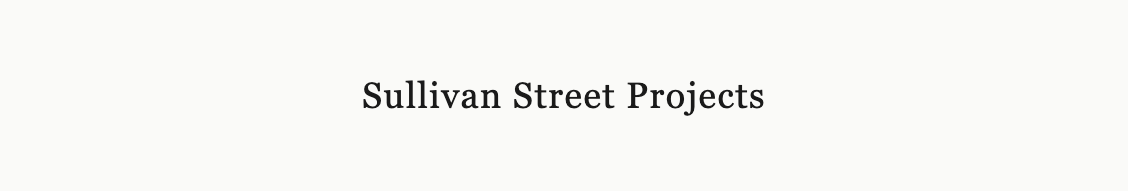
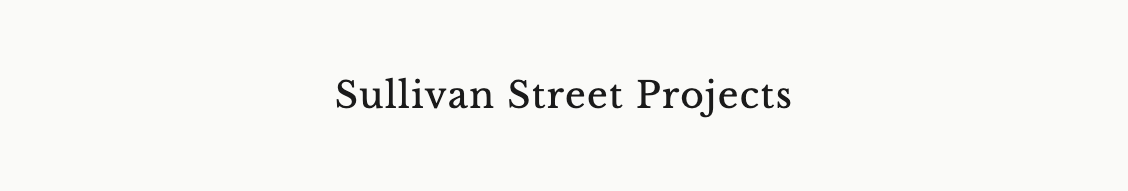
Replace mailto CTA with TidyCal booking link and add external link handling
- Contact CTA now points to TidyCal growth consultation booking page
- CTAButton auto-detects external URLs and adds target="_blank" rel="noopener noreferrer"
- Refactor CTAButton class structure for group-hover support
- Update MainPageStatic playground variant with new sections and content
- Update LinkedIn company banner

Changed region(s): [[0.2793, 0.3927, 0.7137, 0.6283]]

diff --git a/src/playground/variants/MainPageStatic.jsx b/src/playground/variants/MainPageStatic.jsx
@@ -1,4 +1,4 @@
-import { VALUE_PROPS, CAPABILITIES, BRANDS } from '../../constants';
+import { VALUE_PROPS, CAPABILITIES, BRANDS, TIERS, FEATURES, MOBILE_TIERS, PARTNER_OUTCOMES } from '../../constants';
 
 // --- Primitives ---
 
@@ -10,22 +10,11 @@ const SectionLabel = ({ children }) => (
   </div>
 );
 
-const Section = ({ id, label, children, divider = true }) => (
-  <section id={id} className={`py-24 md:py-32 lg:py-48 ${divider ? 'border-t border-[#e5e5e5]' : ''}`}>
+const Section = ({ id, label, children, divider = true, className = '' }) => (
+  <section id={id} className={`py-24 md:py-32 lg:py-48 ${divider ? 'border-t border-[#e5e5e5]' : ''} ${className}`}>
     {label && <SectionLabel>{label}</SectionLabel>}
     {children}
   </section>
-);
-
-const SectionIntro = ({ title, subtitle, children }) => (
-  <div className="mb-20 md:mb-24">
-    <h2 className="font-serif text-3xl md:text-5xl lg:text-6xl leading-tight text-[#1a1a1a] mb-8 md:mb-12">
-      {title}<br /><span className="italic">{subtitle}</span>
-    </h2>
-    <p className="font-sans text-[17px] md:text-[19px] text-[#404040] leading-relaxed font-light tracking-wide max-w-[800px]">
-      {children}
-    </p>
-  </div>
 );
 
 const CTALink = ({ children, size = 'sm' }) => {
@@ -47,75 +36,6 @@ const CTALink = ({ children, size = 'sm' }) => {
     </div>
   );
 };
-
-const MinimalDot = ({ count = 1 }) => (
-  <div className="flex gap-1.5">
-    {[...Array(count)].map((_, i) => (
-      <div key={i} className="w-1.5 h-1.5 rounded-full bg-[#1a1a1a]/40" />
-    ))}
-  </div>
-);
-
-// Static version of animated graphics (same dimensions as originals)
-const StaticGraphic = ({ type }) => {
-  const graphics = {
-    rings: (
-      <svg viewBox="0 0 240 200" className="w-full h-full max-w-[320px]" style={{ overflow: 'visible' }}>
-        {[...Array(4)].map((_, ring) => {
-          const baseRadius = 20 + ring * 18;
-          const dotCount = 6 + ring * 4;
-          return [...Array(dotCount)].map((_, i) => {
-            const angle = (i / dotCount) * Math.PI * 2;
-            return (
-              <circle
-                key={`${ring}-${i}`}
-                cx={120 + Math.cos(angle) * baseRadius}
-                cy={100 + Math.sin(angle) * baseRadius}
-                r={3.5 - ring * 0.5}
-                fill="#1a1a1a"
-                opacity={0.75}
-              />
-            );
-          });
-        })}
-      </svg>
-    ),
-    streams: (
-      <svg viewBox="0 0 240 200" className="w-full h-full max-w-[320px]" style={{ overflow: 'visible' }}>
-        {[...Array(5)].map((_, row) => {
-          const intensity = [2.0, 3.0, 4.0, 3.0, 2.0][row];
-          return [...Array(10)].map((_, col) => (
-            <circle
-              key={`${row}-${col}`}
-              cx={30 + col * 20}
-              cy={35 + row * 32}
-              r={intensity}
-              fill="#1a1a1a"
-              opacity={0.75}
-            />
-          ));
-        })}
-      </svg>
-    ),
-    nodes: (
-      <svg viewBox="0 0 240 200" className="w-full h-full max-w-[320px]" style={{ overflow: 'visible' }}>
-        {/* Corners */}
-        <circle cx={60} cy={50} r={6} fill="#1a1a1a" opacity={0.65} />
-        <circle cx={180} cy={50} r={6} fill="#1a1a1a" opacity={0.65} />
-        <circle cx={180} cy={150} r={6} fill="#1a1a1a" opacity={0.65} />
-        <circle cx={60} cy={150} r={6} fill="#1a1a1a" opacity={0.65} />
-        {/* Center */}
-        <circle cx={120} cy={100} r={10} fill="#1a1a1a" opacity={0.6} />
-        {/* Edges */}
-        <circle cx={120} cy={35} r={5} fill="#1a1a1a" opacity={0.6} />
-        <circle cx={120} cy={165} r={5} fill="#1a1a1a" opacity={0.6} />
-      </svg>
-    ),
-  };
-  return graphics[type];
-};
-
-const staticGraphics = ['rings', 'streams', 'nodes'];
 
 // --- Page ---
 
@@ -143,7 +63,7 @@ const MainPageStatic = () => (
       <div className="py-20 md:py-24 flex flex-col lg:flex-row gap-8 lg:gap-24 items-baseline">
         <div className="lg:w-1/4 shrink-0">
           <span className="font-sans text-[11px] text-[#737373] tracking-[0.25em] uppercase font-bold">
-            Our team has managed $2B+ for
+            Before SSP, our team managed $2B+ for
           </span>
         </div>
         <div className="flex flex-wrap gap-x-12 md:gap-x-16 gap-y-8 md:gap-y-10">
@@ -156,22 +76,35 @@ const MainPageStatic = () => (
       </div>
     </section>
 
-    {/* Value Props (Intro) */}
-    <Section label="Opportunity">
-      <SectionIntro title="Make Marketing Work" subtitle="For Your Business.">
-        Everything in marketing is changing. What works today won't work tomorrow. The brands that master the shift grow faster, with more focus and higher profit. We're the partner helping them get there.
-      </SectionIntro>
+    {/* Statement */}
+    <Section divider={true}>
+      <div className="max-w-[700px] mx-auto lg:mx-0 space-y-10 md:space-y-12">
+        <p className="font-serif text-2xl md:text-4xl leading-snug text-[#1a1a1a]">
+          Most growth-stage companies have agencies, freelancers, and tools. <em className="italic">What they don't have is someone owning the outcome.</em>
+        </p>
+        <p className="font-sans text-[17px] md:text-[19px] text-[#404040] leading-relaxed font-light tracking-wide">
+          We're the AI-native growth partner that aligns brand, performance, systems, and talent under one team — and stays accountable to revenue, not a percentage of your ad spend.
+        </p>
+      </div>
+    </Section>
 
-      <div className="grid grid-cols-1 md:grid-cols-3 gap-0">
+    {/* Intro (Value Props) */}
+    <Section label="Opportunity">
+      <div className="mb-16 md:mb-20">
+        <h2 className="font-serif text-3xl md:text-5xl lg:text-6xl leading-tight text-[#1a1a1a] mb-8 md:mb-12">
+          Make Marketing Work<br /><span className="italic">For Your Business.</span>
+        </h2>
+        <p className="font-sans text-[17px] md:text-[19px] text-[#404040] leading-relaxed font-light tracking-wide max-w-[800px]">
+          Three ways we embed with your team to drive growth — from strategic guidance to full operational ownership.
+        </p>
+      </div>
+
+      <div className="grid grid-cols-1 md:grid-cols-3">
         {VALUE_PROPS.map((prop, idx) => (
-          <div key={idx}>
-            <div className="min-h-[280px] flex-1 flex items-center justify-center">
-              <StaticGraphic type={staticGraphics[idx]} />
-            </div>
-            <div className="px-4 pb-8 pt-2">
-              <h3 className="font-serif text-[20px] leading-tight text-[#1a1a1a] mb-2">{prop.title}</h3>
-              <p className="font-sans text-[14px] text-[#737373] leading-relaxed">{prop.description}</p>
-            </div>
+          <div key={idx} className={`py-8 ${idx === 0 ? 'md:pr-6' : idx === 2 ? 'md:pl-6' : 'md:px-6'} ${idx < 2 ? 'md:border-r border-[#e5e5e5]/60' : ''}`}>
+            <h3 className="font-serif text-[20px] leading-snug text-[#1a1a1a] mb-3">{prop.title}</h3>
+            <div className="w-8 h-px bg-[#1a1a1a]/20 mb-4" />
+            <p className="font-sans text-[15px] text-[#525252] leading-relaxed font-light">{prop.description}</p>
           </div>
         ))}
       </div>
@@ -179,22 +112,97 @@ const MainPageStatic = () => (
 
     {/* Approach */}
     <Section id="approach" label="Approach">
-      <SectionIntro title="Tailor made" subtitle="growth marketing.">
-        You know what's working in your business and what isn't. What you need is a strategy to grow. We build that strategy, tailored to you.
-      </SectionIntro>
+      <div className="mb-20 md:mb-28 lg:mb-36">
+        <h2 className="font-serif text-3xl md:text-5xl lg:text-6xl leading-tight text-[#1a1a1a] mb-8 md:mb-12">
+          Tailor made<br /><span className="italic">growth marketing.</span>
+        </h2>
+        <p className="font-sans text-[17px] md:text-[19px] text-[#404040] leading-relaxed font-light tracking-wide max-w-[800px]">
+          You know what's working in your business and what isn't. What you need is a strategy to grow. We build that strategy, tailored to you.
+        </p>
+      </div>
 
-      <div className="grid grid-cols-1 md:grid-cols-2 lg:grid-cols-4">
-        {CAPABILITIES.map((cap, idx) => (
-          <div
-            key={cap.title}
-            className={`py-8 md:px-6 md:first:pl-0 md:last:pr-0 border-[#e5e5e5]/60
-              ${idx % 2 === 0 ? 'md:border-r' : ''}
-              ${idx < 3 ? 'lg:border-r' : ''}`}
-          >
-            <div className="mb-5"><MinimalDot count={idx + 1} /></div>
-            <h3 className="font-serif text-xl leading-tight text-[#1a1a1a] mb-3">{cap.title}</h3>
-            <div className="w-8 h-px bg-[#1a1a1a]/20 mb-4" />
-            <p className="font-sans text-[15px] text-[#525252] leading-relaxed font-light">{cap.description}</p>
+      {CAPABILITIES.map((cap, idx) => (
+        <div key={cap.title}>
+          <div className="h-px bg-[#1a1a1a]/10" />
+          <div className="grid grid-cols-12 py-10 md:py-14 lg:py-16">
+            <div className="col-span-3 md:col-span-2">
+              <span className="font-serif text-[#1a1a1a]/10 text-[56px] md:text-[72px] lg:text-[88px] leading-none select-none">
+                {idx + 1}
+              </span>
+            </div>
+            <div className="col-span-9 md:col-span-8 lg:col-span-6 pt-2 md:pt-3">
+              <h3 className="font-serif text-xl md:text-2xl lg:text-3xl leading-snug text-[#1a1a1a] mb-4 md:mb-5">
+                {cap.title}
+              </h3>
+              <p className="font-sans text-[15px] md:text-[17px] text-[#525252] leading-relaxed font-light">
+                {cap.description}
+              </p>
+            </div>
+          </div>
+        </div>
+      ))}
+      <div className="h-px bg-[#1a1a1a]/10" />
+    </Section>
+
+    {/* Services */}
+    <Section id="services" label="Services" className="py-16 md:py-24 lg:py-32">
+      <div className="mb-12 md:mb-16">
+        <h2 className="font-serif text-3xl md:text-5xl lg:text-6xl leading-tight text-[#1a1a1a] mb-8">
+          Your marketing investment,<br /><span className="italic">managed.</span>
+        </h2>
+        <p className="font-sans text-[17px] md:text-[19px] text-[#404040] leading-relaxed font-light tracking-wide max-w-[800px]">
+          One point of contact. The right team for the job.
+        </p>
+      </div>
+
+      {/* Service Tiers */}
+      {MOBILE_TIERS.map((tier) => (
+        <div key={tier.id} className="border-b border-[#e5e5e5]">
+          <div className="py-6">
+            <h3 className="font-serif text-xl text-[#1a1a1a] mb-1">{tier.title}</h3>
+            <p className="font-sans text-[10px] uppercase tracking-widest font-bold text-[#737373]">{tier.subtitle}</p>
+          </div>
+          <div className="pb-8">
+            <p className="font-sans text-[15px] text-[#525252] leading-relaxed font-light mb-6">
+              {tier.description}
+            </p>
+            <p className="font-sans text-[13px] italic text-[#737373] mb-5">{tier.includesText}</p>
+            <ul className="space-y-3">
+              {tier.features.map((feature) => (
+                <li key={feature} className="font-sans text-[15px] text-[#525252] font-light flex items-start">
+                  <span className="text-[#1a1a1a] mr-3">●</span>
+                  {feature}
+                </li>
+              ))}
+            </ul>
+          </div>
+        </div>
+      ))}
+
+      <div className="mt-8">
+        <p className="font-sans text-[13px] italic text-[#737373]">
+          Diagnostic assessments available by request.
+        </p>
+      </div>
+      <div className="mt-10">
+        <p className="font-sans text-[15px] text-[#525252] mb-4">
+          Not sure which level of support you need?
+        </p>
+        <CTALink>Schedule a call</CTALink>
+      </div>
+    </Section>
+
+    {/* Partner Outcomes */}
+    <Section label="Partner Outcomes">
+      <div className="max-w-[800px]">
+        {PARTNER_OUTCOMES.map((outcome, idx) => (
+          <div key={outcome.id} className={`${idx > 0 ? 'mt-16 pt-16 border-t border-[#e5e5e5]' : ''}`}>
+            <p className="font-serif text-2xl md:text-3xl lg:text-4xl leading-[1.4] text-[#404040] font-light mb-6">
+              {outcome.metric}
+            </p>
+            <div className="font-sans text-[10px] font-bold uppercase tracking-widest text-[#737373]">
+              {outcome.client}
+            </div>
           </div>
         ))}
       </div>
@@ -202,14 +210,13 @@ const MainPageStatic = () => (
 
     {/* About */}
     <Section id="about" label="About">
-      <div className="max-w-[850px] space-y-20 md:space-y-24">
+      <div className="max-w-[700px] space-y-20 md:space-y-24">
         <div className="space-y-10 md:space-y-12">
           <h2 className="font-serif text-3xl md:text-5xl italic text-[#1a1a1a]">
             Yesterday's agencies aren't built for tomorrow's brands.
           </h2>
           <div className="font-sans text-[17px] text-[#404040] leading-relaxed space-y-8 font-light tracking-wide">
-            <p>They were designed for a world where it took teams of people to do all the work. That world is changing—from media buying to creative to content, from analysis to optimization. AI now touches everything in marketing, so the work that matters has changed too.</p>
-            <p>Today's advantage is orchestration: managing systems, aligning teams, and making business decisions that connect to your bottom line—the kind of decisions AI can't make without a human in the loop.</p>
+            <p>They were built for a world where scale meant headcount. Today, the advantage belongs to teams that orchestrate — managing systems, aligning talent, and making the business decisions AI can't make without a human in the loop.</p>
             <p>Sullivan Street Projects is the growth partner for tomorrow's billion-dollar brands. We're who businesses call when they need more than point solutions and disconnected vendors. We partner with you, look across your business, translate goals into a clear plan, and manage marketing like the investment it is.</p>
           </div>
         </div>
@@ -218,7 +225,9 @@ const MainPageStatic = () => (
         <div className="pt-16 lg:pt-24 border-t border-[#e5e5e5]">
           <div className="grid grid-cols-1 lg:grid-cols-12 gap-10 lg:gap-16 items-start">
             <div className="lg:col-span-4 flex items-center gap-6">
-              <div className="w-16 h-16 md:w-20 md:h-20 shrink-0 rounded-full bg-[#e5e5e5]" />
+              <div className="w-16 h-16 md:w-20 md:h-20 shrink-0 rounded-full bg-[#e5e5e5] overflow-hidden">
+                <img src="image.webp" alt="Brett Wohl" className="w-full h-full object-cover" loading="lazy" onError={(e) => { e.target.style.display = 'none'; }} />
+              </div>
               <div>
                 <h4 className="font-serif text-xl leading-none mb-2 text-[#1a1a1a]">Brett Wohl</h4>
                 <p className="font-sans text-[10px] uppercase tracking-widest font-bold text-[#737373]">Founder, Managing Partner</p>
@@ -240,12 +249,39 @@ const MainPageStatic = () => (
         <div className="max-w-[1000px] py-16 md:py-20 space-y-16 md:space-y-20">
           <h2 className="font-serif text-4xl md:text-5xl lg:text-[70px] leading-[1.1] text-[#1a1a1a] tracking-tight">
             Ready to build <br />
-            <span className="italic">Tomorrow's Billion-Dollar Brand?</span>
+            <span className="italic">tomorrow's billion-dollar brand?</span>
           </h2>
           <CTALink size="lg">Schedule a call</CTALink>
         </div>
       </Section>
     </div>
+
+    {/* Footer */}
+    <footer className="pt-24 pb-32 md:pt-32 md:pb-44 border-t border-[#e5e5e5]">
+      <div className="grid grid-cols-1 md:grid-cols-2 lg:grid-cols-12 gap-12 lg:gap-24 items-start">
+        <div className="lg:col-span-5">
+          <span className="font-serif text-2xl font-bold block mb-8 text-[#1a1a1a]">Sullivan Street Projects</span>
+          <div className="flex flex-col gap-1">
+            <p className="font-serif text-[15px] italic text-[#525252]">Growth Marketing Partners</p>
+            <p className="font-sans text-[13px] text-[#737373] tracking-wide">Stop guessing. Start growing.</p>
+          </div>
+        </div>
+        <div className="lg:col-span-3">
+          <p className="font-sans text-[10px] font-bold uppercase tracking-wider mb-6 text-[#737373]">Location</p>
+          <p className="font-sans text-[14px] text-[#404040] leading-relaxed">
+            1178 Broadway<br />New York, NY 10001
+          </p>
+        </div>
+        <div className="lg:col-span-4">
+          <p className="font-sans text-[10px] font-bold uppercase tracking-wider mb-6 text-[#737373]">Legal</p>
+          <div className="flex flex-col gap-4 font-sans text-[13px] text-[#404040]">
+            <span className="text-[#737373]">Privacy Policy</span>
+            <span className="text-[#737373]">Terms & Conditions</span>
+            <p className="mt-8 text-[#a3a3a3]">© {new Date().getFullYear()} Sullivan Street Projects LLC. All Rights Reserved.</p>
+          </div>
+        </div>
+      </div>
+    </footer>
 
   </div>
 );

diff --git a/src/components/CTAButton.jsx b/src/components/CTAButton.jsx
@@ -4,24 +4,31 @@ import AnimatedArrow from './AnimatedArrow';
 const CTAButton = ({ href, onClick, children, variant = 'sm' }) => {
   const isLarge = variant === 'lg';
 
-  const className = isLarge
-    ? 'font-serif text-3xl md:text-4xl lg:text-5xl italic inline-flex items-center gap-6 md:gap-10 transition-colors duration-300 text-charcoal hover:text-[#737373]'
-    : 'font-sans text-micro font-bold uppercase tracking-wider inline-flex items-center gap-4 transition-colors duration-300 text-charcoal hover:text-[#737373]';
+  const textClass = isLarge
+    ? 'font-serif text-3xl md:text-4xl lg:text-5xl italic transition-colors duration-300 text-charcoal group-hover:text-[#737373]'
+    : 'font-sans text-micro font-bold uppercase tracking-wider transition-colors duration-300 text-charcoal group-hover:text-[#737373]';
+
+  const wrapperClass = isLarge
+    ? 'inline-flex items-center gap-6 md:gap-10'
+    : 'inline-flex items-center gap-4';
 
   const underlineClass = isLarge
     ? 'absolute -bottom-4 left-0 w-full h-[1.5px] bg-charcoal scale-x-0 group-hover:scale-x-100 transition-transform origin-left duration-500 delay-100'
     : 'absolute -bottom-2 left-0 w-full h-[1.5px] bg-charcoal scale-x-0 group-hover:scale-x-100 transition-transform origin-left duration-500 delay-100';
 
   const Tag = href ? 'a' : 'button';
-  const props = href ? { href } : { onClick };
+  const isExternal = href && (href.startsWith('http') || href.startsWith('//'));
+  const props = href
+    ? { href, ...(isExternal && { target: '_blank', rel: 'noopener noreferrer' }) }
+    : { onClick };
 
   return (
     <div className="group relative inline-block cursor-pointer">
       <Tag
         {...props}
-        className={className}
+        className={wrapperClass}
       >
-        <span className="relative z-10">{children}</span>
+        <span className={`relative z-10 ${textClass}`}>{children}</span>
         <AnimatedArrow size={variant} className={isLarge ? 'not-italic relative z-10' : 'relative z-10'} />
       </Tag>
       <div className={underlineClass} />

diff --git a/src/sections/Contact.jsx b/src/sections/Contact.jsx
@@ -16,7 +16,7 @@ const Contact = () => {
               </h2>
             </FocusText>
             <div>
-              <CTAButton href="mailto:hello@sullivanstreetprojects.co" variant="lg">
+              <CTAButton href="https://tidycal.com/sullivan-street-projects/growth-consultation" variant="lg">
                 Schedule a call
               </CTAButton>
             </div>
